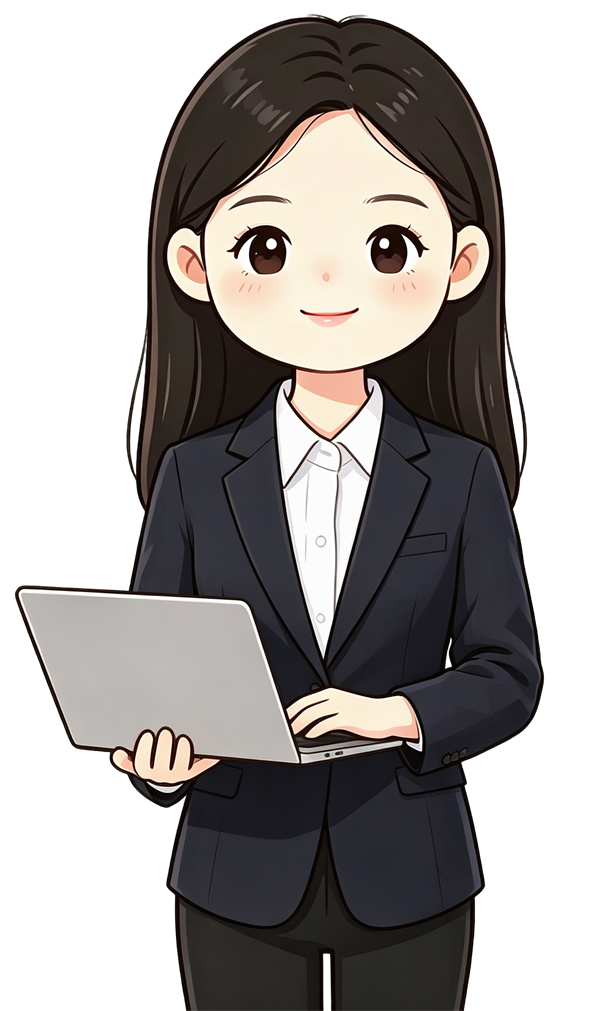
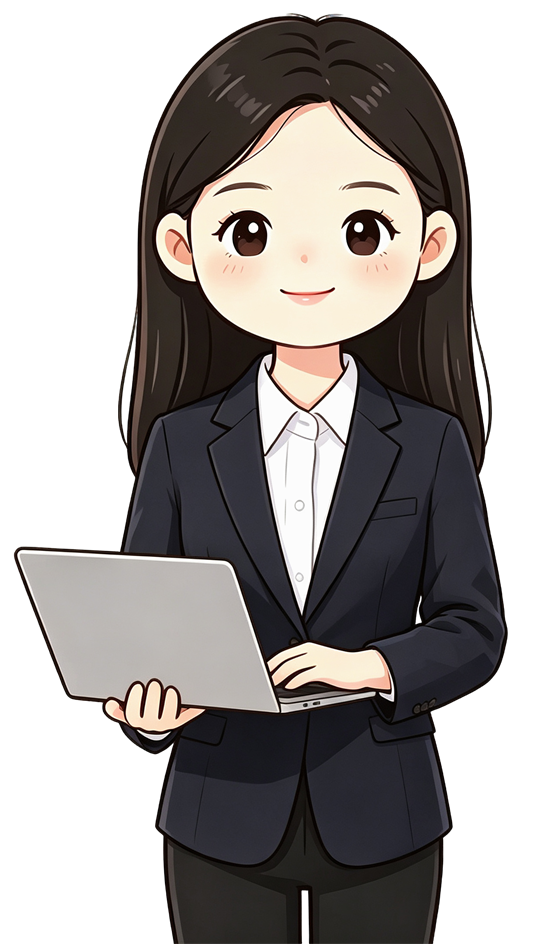
技能审计后优化：人物图blur-up(模糊占位+清晰淡入)、加载遮罩提速、桌面隐藏滚动提示防重叠、收紧模块间距

diff --git a/styles.css b/styles.css
@@ -4846,18 +4846,31 @@ body::before {
     }
 }
 
-/* 人物图：下载完成后整块淡入，避免 PNG 逐行“挤牙膏”式从上往下绘制 */
-.character-img-user.avatar-fade {
-    opacity: 0;
-    transform: translateY(10px) scale(.985);
-    transition: opacity .5s ease, transform .5s ease;
+/* 人物图：模糊占位(LQIP,1.5KB 内联秒显) → 清晰图淡入（blur-up），
+   既不再“挤牙膏”式逐行绘制，也不会让用户干等空白 */
+.avatar-wrap {
+    position: relative;
+    display: inline-block;
+    max-width: 100%;
 }
-.character-img-user.avatar-fade.loaded {
-    opacity: 1;
-    transform: none;
+.avatar-wrap img { display: block; max-width: 100%; }
+.avatar-lqip {
+    position: absolute;
+    inset: 0;
+    background-size: cover;
+    background-position: bottom center;
+    background-repeat: no-repeat;
+    filter: blur(12px);
+    transform: scale(1.06);
+    transition: opacity .5s ease;
+    pointer-events: none;
 }
+.avatar-wrap.img-loaded .avatar-lqip { opacity: 0; }
+.character-img-user.avatar-fade { opacity: 0; }
+.character-img-user.avatar-fade.loaded { opacity: 1; transition: opacity .55s ease; }
 @media (prefers-reduced-motion: reduce) {
-    .character-img-user.avatar-fade { opacity: 1; transform: none; transition: none; }
+    .avatar-lqip { filter: none; transform: none; transition: none; }
+    .character-img-user.avatar-fade { opacity: 1; transition: none; }
 }
 
 /* 移动端微调 */
@@ -4917,7 +4930,24 @@ body::before {
     z-index: 1;
 }
 
-/* 手机/平板：显示“向下滚动”提示，改为文档流内居中的一行，不再绝对定位 */
+/* 桌面/笔记本：隐藏绝对定位的“向下滚动”提示（会与数值条重叠），
+   并让 hero 不强制满屏、收紧竖向节奏 */
+@media (min-width: 769px) {
+    .scroll-hint { display: none; }
+    .hero {
+        min-height: auto;
+        padding: 132px 0 84px;
+        align-items: center;
+    }
+    .hero-content {
+        min-height: auto;
+        padding-top: 0;
+        padding-bottom: 0;
+    }
+    .section { padding: 88px 0; }
+}
+
+/* 手机/平板：在内容流末尾居中显示“向下滚动”提示，不使用绝对定位 */
 @media (max-width: 768px) {
     .hero {
         flex-direction: column;
@@ -4927,7 +4957,7 @@ body::before {
         position: static;
         transform: none;
         align-self: center;
-        margin: 22px auto 0;
+        margin: 20px auto 0;
         flex-direction: row;
         gap: 12px;
         animation: none;
@@ -4935,29 +4965,6 @@ body::before {
     .scroll-line {
         width: 34px;
         height: 1px;
-    }
-}
-
-/* 矮屏笔记本（横向、高度小）：hero 不强制满屏，避免数值条与“向下滚动”提示挤压重叠 */
-@media (min-width: 769px) and (max-height: 880px) {
-    .hero {
-        min-height: auto;
-        padding: 130px 0 70px;
-        align-items: center;
-    }
-    .hero-content {
-        min-height: auto;
-        padding-top: 0;
-        padding-bottom: 0;
-    }
-    .scroll-hint {
-        display: none;
-    }
-    .hero-stats .stat {
-        padding: 14px 18px;
-    }
-    .hero-stats .stat strong {
-        font-size: 1.7rem;
     }
 }
 

diff --git a/index.html b/index.html
@@ -110,7 +110,10 @@
                 <div class="character-wrap">
                     <!-- 人物插画（AI生成） -->
                     <div class="character-picture character-picture-user">
-                        <img src="hero-avatar-opt.png" width="600" height="1011" alt="邓洁的Q版人物形象" class="character-img character-img-user avatar-fade" fetchpriority="high" decoding="async" onload="this.classList.add('loaded')">
+                        <span class="avatar-wrap">
[1 lines of base64/hex data omitted]
+                            <img src="hero-avatar-opt.png" width="560" height="944" alt="邓洁的Q版人物形象" class="character-img character-img-user avatar-fade" fetchpriority="high" decoding="async" onload="this.classList.add('loaded');this.parentNode.classList.add('img-loaded')">
+                        </span>
                     </div>
                     <!-- 浮动标签 -->
                     <div class="float-card float-card-1">

diff --git a/script.js b/script.js
@@ -297,8 +297,10 @@ const hideLoader = () => {
     const loader = document.getElementById('loader');
     if (loader) loader.classList.add('hidden');
 };
-window.addEventListener('DOMContentLoaded', () => setTimeout(hideLoader, 350));
-window.addEventListener('load', hideLoader); // load 事件兜底
+// DOM 就绪即快速淡出，不再等待大图等资源，缩短“启动进入”时间
+window.addEventListener('DOMContentLoaded', () => setTimeout(hideLoader, 150));
+window.addEventListener('load', hideLoader); // load 事件兜底（防止极端情况下遮罩不消失）
+setTimeout(hideLoader, 2500); // 硬兜底：2.5s 后无论如何隐藏
 
 // 项目详情已迁移至 case-study.html，并在新标签页打开。
 
